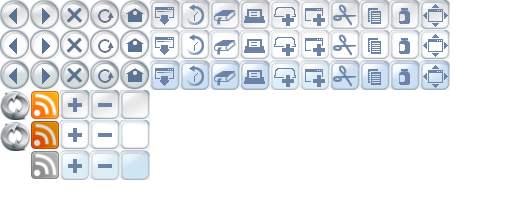
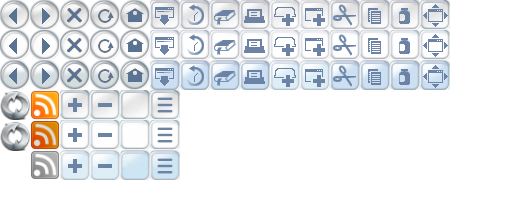
Menu button is themed.

Changed region(s): [[0.2791, 0.45, 0.3721, 0.9]]

diff --git a/IE6/chrome/icons.css b/IE6/chrome/icons.css
@@ -106,7 +106,7 @@ Removed pending icon creation:
 */
 
 :-moz-any(#back-button,#forward-button,#home-button,#stop-button,#reload-button,#bookmarks-menu-button,#history-panelmenu,
-	#sync-button,#feed-button,#e10s-button,
+	#sync-button,#feed-button,#e10s-button,#PanelUI-menu-button,
 	#new-window-button,#new-tab-button,#print-button,#fullscreen-button,
 	#cut-button,#copy-button,#paste-button,#zoom-out-button,#zoom-in-button,
 	/*#tabview-button,#email-link-button,#sidebar-button,#web-apps-button,#webide-button,#developer-button,*/#containers-panelmenu,
@@ -160,6 +160,14 @@ toolbar .toolbarbutton-1[type="menu-button"] toolbarbutton[disabled] .toolbarbut
 	border: none !important;
 	padding: 0px !important;
 	max-width: 20px !important;
+}
+
+#PanelUI-menu-button .toolbarbutton-badge-stack {
+	padding: 0 !important;
+}
+
+#PanelUI-menu-button .toolbarbutton-icon {
+	width: calc(2 * var(--toolbarbutton-inner-padding) + 16px) !important;
 }
 
 .toolbarbutton-animatable-box {

diff --git a/IE6/chrome/icon_size.css b/IE6/chrome/icon_size.css
@@ -246,6 +246,18 @@
 	-moz-image-region: rect(150px, 90px, 180px, 60px) !important;
 }
 
+#PanelUI-menu-button {
+	-moz-image-region: rect(90px, 180px, 120px, 150px) !important;
+}
+
+#PanelUI-menu-button:hover {
+	-moz-image-region: rect(120px, 180px, 150px, 150px) !important;
+}
+
+#PanelUI-menu-button:active {
+	-moz-image-region: rect(151px, 180px, 181px, 150px) !important;
+}
+
 /*#tabview-button {
 	-moz-image-region: rect(0px, 648px, 18px, 630px) !important;
 }
